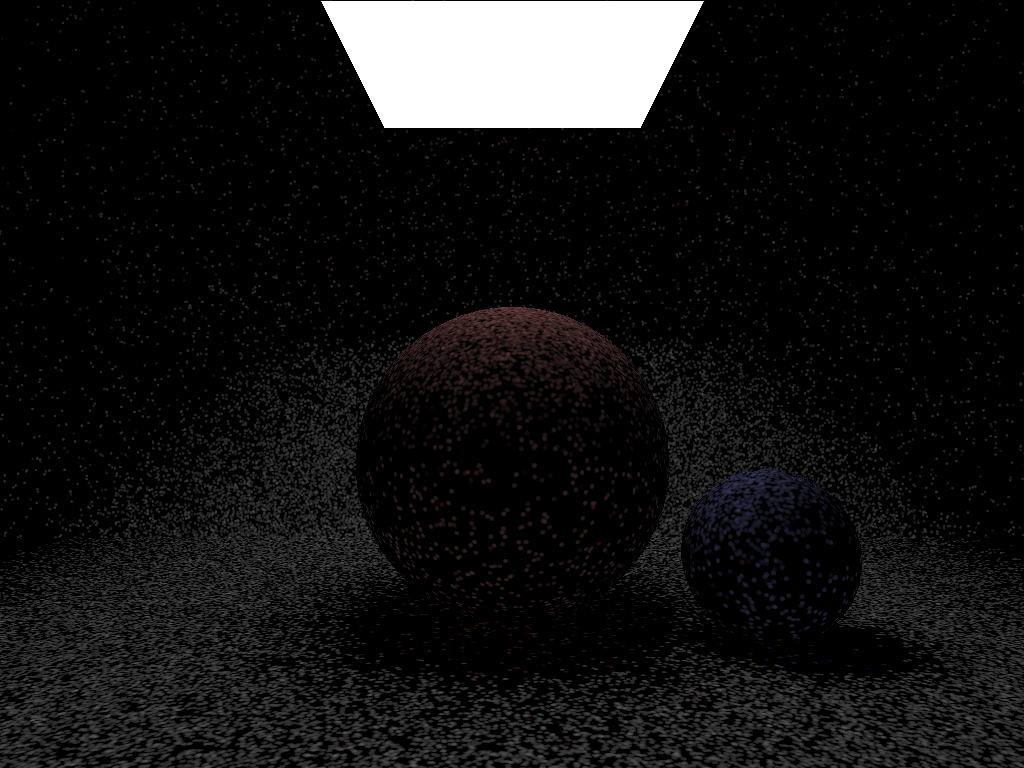
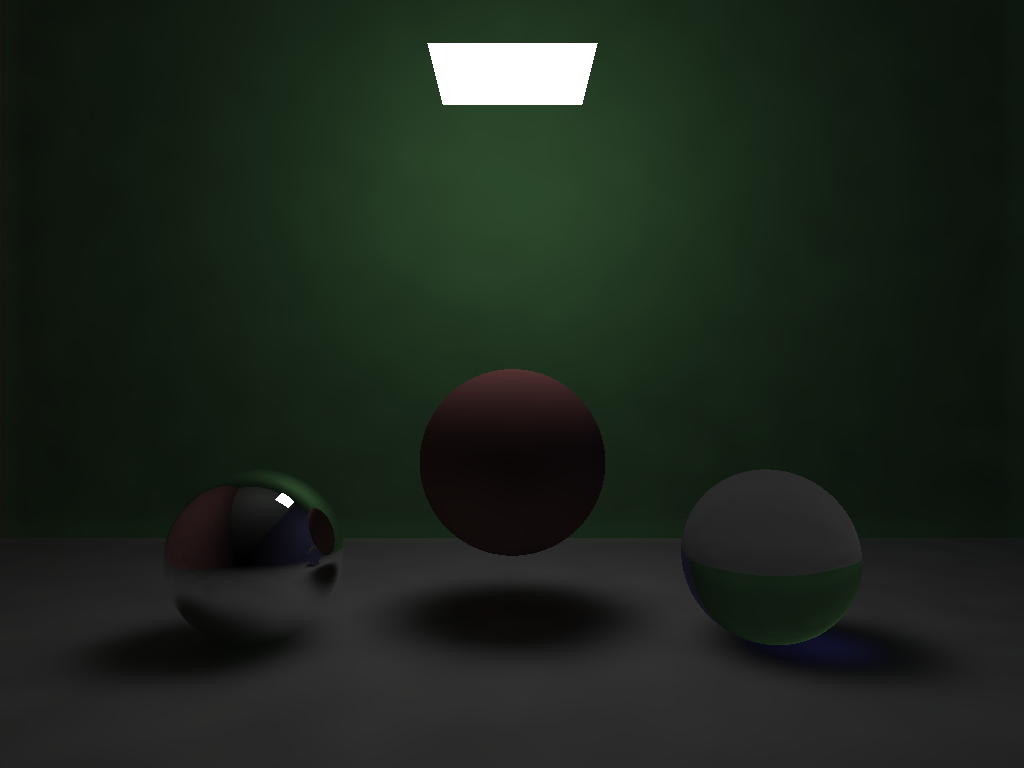
添加了折射

diff --git a/src/core/progressive_photon_mapper.rs b/src/core/progressive_photon_mapper.rs
@@ -45,12 +45,12 @@ impl ProgressivePhotonTracer {
         for i in 0..self.width {
             for j in 0..self.height {
                 let ray = self.camera.emitting(i, j);
-                self.trace_ray(&ray, j, i, 1.0, 0);
+                self.trace_ray(&ray, j, i, 1.0, 0, false);
             }
         }
     }
 
-    pub fn trace_ray(&mut self, ray: &Ray, pixel_x: usize, pixel_y: usize, weight : f64, depth : u32) {
+    pub fn trace_ray(&mut self, ray: &Ray, pixel_x: usize, pixel_y: usize, weight : f64, depth : u32, refracted : bool) {
         if depth > 20 { return; }
         let lgt_collider = self.scene.intersect_light(ray);
         let obj_collider = self.scene.intersect(ray);
@@ -79,7 +79,16 @@ impl ProgressivePhotonTracer {
                     collider.pos,
                     collider.material.cal_specular_ray(&ray.d, &collider.norm_vec).unwrap()
                 );
-                self.trace_ray(&spec_ray, pixel_x, pixel_y, weight * collider.material.specular, depth + 1);
+                self.trace_ray(&spec_ray, pixel_x, pixel_y, weight * collider.material.specular, depth + 1, refracted);
+            }
+            if collider.material.is_refractive() {
+                if let Some(dir) = collider.material.cal_refractive_ray(&ray.d, &collider.norm_vec, refracted) {
+                    let spec_ray = Ray::new(
+                        collider.pos,
+                        dir
+                    );
+                    self.trace_ray(&spec_ray, pixel_x, pixel_y, weight * collider.material.refraction, depth + 1, !refracted);
+                }
             }
         } else if lgt_collider.is_some() {  // 只与光源相交
             let lgt = lgt_collider.unwrap();
@@ -107,7 +116,7 @@ impl ProgressivePhotonTracer {
         self.gen_png();
     }
 
-    fn photon_tracing(&mut self, mut photon : Photon, depth : u32) {
+    fn photon_tracing(&mut self, mut photon : Photon, depth : u32, refracted : bool) {
         if depth > 10 || photon.power.power() < 1e-7 { return; }   // 最大递归深度
         if let Some(collider) = self.scene.intersect(&photon.ray) {
             photon.ray.o = collider.pos;
@@ -118,14 +127,15 @@ impl ProgressivePhotonTracer {
             }
 
             let mut prob = 1.0;
-            if !self.photon_diffusion(&collider, photon.clone(), depth, &mut prob) {
-                if !self.photon_reflection(&collider, photon.clone(), depth, &mut prob) {
+            if !self.photon_diffusion(&collider, photon.clone(), depth, &mut prob, refracted) {
+                if !self.photon_reflection(&collider, photon.clone(), depth, &mut prob, refracted) {
+                    self.photon_refraction(&collider, photon.clone(), depth, &mut prob, refracted);
                 }
             }
         }
     }
 
-    fn photon_reflection(&mut self, collider : &Collider, mut photon : Photon, depth : u32, prob : &mut f64) -> bool {
+    fn photon_reflection(&mut self, collider : &Collider, mut photon : Photon, depth : u32, prob : &mut f64, refracted : bool) -> bool {
         let eta = collider.material.specular * collider.material.color.power();
         if eta < rand::thread_rng().gen_range(0.0, 1.0) * ( *prob) {
             *prob -= eta;
@@ -135,12 +145,12 @@ impl ProgressivePhotonTracer {
         if let Some(spec_ray) = collider.get_specular_ray() {
             photon.ray.d = spec_ray;
             photon.power = photon.power * collider.material.color.refresh_by_power();
-            self.photon_tracing(photon, depth + 1);
+            self.photon_tracing(photon, depth + 1,refracted);
         }
         return true;
     }
 
-    fn photon_diffusion(&mut self, collider : &Collider, mut photon : Photon, depth : u32, prob : &mut f64) -> bool {
+    fn photon_diffusion(&mut self, collider : &Collider, mut photon : Photon, depth : u32, prob : &mut f64, refracted : bool) -> bool {
         let eta = collider.material.diffuse * collider.material.color.power();
         if eta < rand::thread_rng().gen_range(0.0, 1.0) * ( *prob) {
             *prob -= eta;
@@ -150,18 +160,33 @@ impl ProgressivePhotonTracer {
         if let Some(diff_ray) = collider.get_diffuse_ray() {
             photon.ray.d = diff_ray;
             photon.power = photon.power * collider.material.color.refresh_by_power();
-            self.photon_tracing(photon, depth + 1);
+            self.photon_tracing(photon, depth + 1,refracted);
         }
         return true;
     }
 
+    fn photon_refraction(&mut self, collider : &Collider, mut photon : Photon, depth : u32, prob : &mut f64, refracted : bool) -> bool {
+        let eta = collider.material.refraction * collider.material.color.power();
+        if eta < rand::thread_rng().gen_range(0.0, 1.0) * ( *prob) {
+            *prob -= eta;
+            return false;
+        }
+
+        if let Some(refr_ray) = collider.get_refractive_ray(refracted) {
+            photon.ray.d = refr_ray;
+            photon.power = photon.power * collider.material.color.refresh_by_power();
+            self.photon_tracing(photon, depth + 1, !refracted);
+        }
+        return true;
+    }
+    
     fn photon_tracing_pass(&mut self, photon_number : usize) {
         let number = self.scene.get_light_num();
         for i in 0..number {
             let illumiant = self.scene.get_light(i);
             for _ in 0..photon_number {
                 let photon = illumiant.gen_photon();
-                self.photon_tracing(photon, 0);
+                self.photon_tracing(photon, 0, false);
             }
         }
     }

diff --git a/src/scene/mod.rs b/src/scene/mod.rs
@@ -20,35 +20,59 @@ impl Scene {
     }
 
     pub fn init(&mut self) {
+        self.objects.push(Box::new(Plane::new(   // Left
+            Vector3::new(0.0, 1.0, 0.0),
+            6000.0,
+            Arc::new(Material::new(Color::new(0.25, 0.25, 0.75), 1.0, 0.0, 0.0, 2.0))
+        )));
+        self.objects.push(Box::new(Plane::new(   // Right
+            Vector3::new(0.0, 1.0, 0.0),
+            4000.0,
+            Arc::new(Material::new(Color::new(0.75, 0.25, 0.25), 1.0, 0.0, 0.0, 2.0))
+        )));
+        self.objects.push(Box::new(Plane::new(   // Top
+            Vector3::new(0.0, 0.0, 1.0),
+            2000.0,
+            Arc::new(Material::new(Color::new(0.75, 0.75, 0.75), 1.0, 0.0, 0.0, 2.0))
+        )));
         self.objects.push(Box::new(Plane::new(   // Bottom
             Vector3::new(0.0, 0.0, 1.0),
             100.0,
-            Arc::new(Material::new(Color::new(0.75, 0.75, 0.75), 1.0, 0.0, 0.0, 0.0))
+            Arc::new(Material::new(Color::new(0.75, 0.75, 0.75), 1.0, 0.0, 0.0, 2.0))
         )));
         self.objects.push(Box::new(Plane::new(  //Back
             Vector3::new(1.0, 0.0, 0.0),
             4500.0,
-            Arc::new(Material::new(Color::new(0.75, 0.75, 0.75), 1.0, 0.0, 0.0, 0.0))
+            Arc::new(Material::new(Color::new(0.25, 0.75, 0.25), 1.0, 0.0, 0.0, 2.0))
         )));
         self.objects.push(Box::new(Sphere::new(
-            200.0,
+            120.0,
             Vector3::new(5000.0, 5000.0, 300.0),
-            Arc::new(Material::new(Color::new(0.75, 0.25, 0.25), 1.0, 0.0, 0.0, 0.0)),
+            Arc::new(Material::new(Color::new(0.75, 0.25, 0.25), 1.0, 0.0, 0.0, 1.2)),
         )));
         self.objects.push(Box::new(Sphere::new(
             100.0,
             Vector3::new(5100.0, 5300.0, 200.0),
-            Arc::new(Material::new(Color::new(0.25, 0.25, 0.75), 1.0, 0.0, 0.0, 0.0)),
+            Arc::new(Material::new(Color::new(0.25, 0.25, 0.75), 0.0, 0.0, 1.0, 1.3)),
+        )));
+        self.objects.push(Box::new(Sphere::new(
+            100.0,
+            Vector3::new(5100.0, 4700.0, 200.0),
+            Arc::new(Material::new(Color::new(0.25, 0.75, 0.25), 0.0, 1.0, 0.0, 1.3)),
         )));
         // 设置光源
         self.illumiants.push(Arc::new(AreaLight::new(
-            Vector3::new(4800.0, 4800.0, 800.0),
+            Vector3::new(4900.0, 4900.0, 800.0),
             Vector3::new(1.0, 0.0, 0.0),
             Vector3::new(0.0, 1.0, 0.0),
             Vector3::new(0.0, 0.0, -1.0),
-            Color::new(10_0000.0, 10_0000.0, 10_0000.0),
-            400.0, 400.0
+            Color::new(50_0000.0, 50_0000.0, 50_0000.0),
+            200.0, 200.0
         )));
+        //self.illumiants.push(Arc::new(DotLight::new(
+            //Vector3::new(4800.0, 5100.0, 800.0),
+            //Color::new(50_0000.0, 50_0000.0, 50_0000.0),
+        //)));
     }
 
     // 求给定射线在场景中的碰撞点

diff --git a/src/scene/material.rs b/src/scene/material.rs
@@ -9,12 +9,12 @@ pub struct Material {
     pub diffuse : f64,
     pub specular : f64,
     pub refraction : f64,
-    pub refraction_index: f64,
+    pub rindex : f64,
 }
 
 impl Material {
-    pub fn new(color: Color, diffuse: f64, specular: f64, refraction: f64, index: f64) -> Self {
-        Material { color, diffuse, specular, refraction, refraction_index: index }
+    pub fn new(color: Color, diffuse: f64, specular: f64, refraction: f64, rindex: f64) -> Self {
+        Material { color, diffuse, specular, refraction, rindex }
     }
 
     /*
@@ -50,10 +50,21 @@ impl Material {
      //计算折射的单位方向
      //ray_x : 入射的射线
      //ray_n : 法向量
-    //pub fn cal_refractive_ray(&self, vec_x: &Vector3, vec_n: &Vector3) -> Option<Vector3> {
-        //if self.refraction > EPS {}
-        //None
-    //}
+     //refracted : 是否已经折射过奇数次
+    pub fn cal_refractive_ray(&self, vec_x: &Vector3, vec_n: &Vector3, refracted : bool) -> Option<Vector3> {
+        if self.refraction > EPS {
+            let mut n = self.rindex;
+            if !refracted {
+                n = 1.0 / n;
+            }
+            let cos_i = -vec_n.dot(vec_x);
+            let cos2_t = 1.0 - ( n * n) * ( 1.0 - cos_i * cos_i);
+            if cos2_t > EPS {
+                return Some(vec_x.mult(n) + vec_n.mult(n * cos_i - cos2_t.sqrt()));
+            }
+        }
+        None
+    }
 
     pub fn is_diffuse(&self) -> bool {
         self.diffuse > EPS
@@ -61,6 +72,10 @@ impl Material {
 
     pub fn is_specular(&self) -> bool {
         self.specular > EPS
+    }
+
+    pub fn is_refractive(&self) -> bool {
+        self.refraction > EPS
     }
     
     // TODO 正确计算漫反射分量

diff --git a/src/scene/light.rs b/src/scene/light.rs
@@ -52,17 +52,19 @@ impl Light for AreaLight {
         let mut rng = rand::thread_rng();
         let mut x : f64 = 0.0;
         let mut y : f64 = 0.0;
+        let mut z : f64 = 0.0;
         loop {
-            if x * x + y * y < 4.0 && x * x + y * y > 1e-10 {
+            if x * x + y * y + z * z < 1.0 && x * x + y * y > 1e-10 {
                 break;
             }
             x = rng.gen_range(-1.0, 1.0);
             y = rng.gen_range(-1.0, 1.0);
+            z = rng.gen_range(-1.0, 1.0);
         }
         Photon { 
             ray : Ray { 
                 o : self.pos + self.dx.mult(rng.gen_range(0.0,self.width)) + self.dy.mult(rng.gen_range(0.0,self.height)), 
-                d : (self.dir + self.dx.mult(x) + self.dy.mult(y)).normalize(), 
+                d : Vector3::new(x, y, z).normalize(), 
             }, 
             power : self.color, 
         }

diff --git a/src/util/collision.rs b/src/util/collision.rs
@@ -19,6 +19,10 @@ impl Collider {
         self.material.cal_specular_ray(&self.in_direction, &self.norm_vec)
     }
 
+    pub fn get_refractive_ray(&self, refracted : bool) -> Option<Vector3> {
+        self.material.cal_refractive_ray(&self.in_direction, &self.norm_vec, refracted)
+    }
+
 }
 
 pub struct LightCollider {

diff --git a/src/main.rs b/src/main.rs
@@ -19,5 +19,5 @@ fn main() {
     camera.set_pos(&Vector3::new(6000.0, 5000.0, 400.0));
     camera.set_dir(Vector3::new(-1.0, 0.0, 0.0));
     let mut render = Render::new(camera, scene);
-    render.run_ppm(1);
+    render.run_ppm(10);
 }
